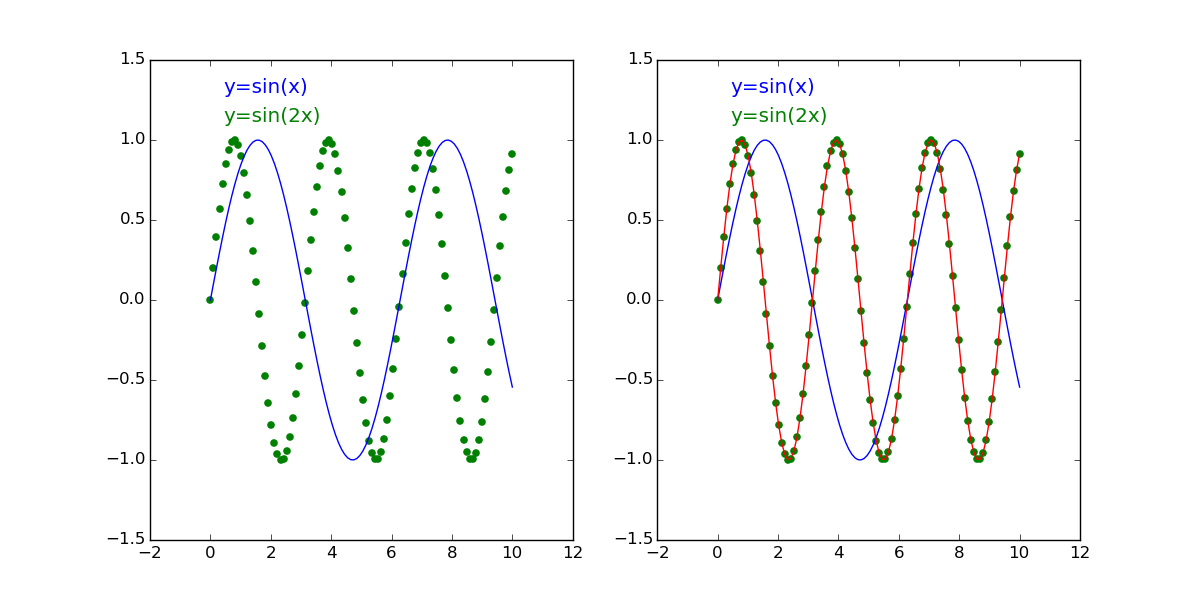
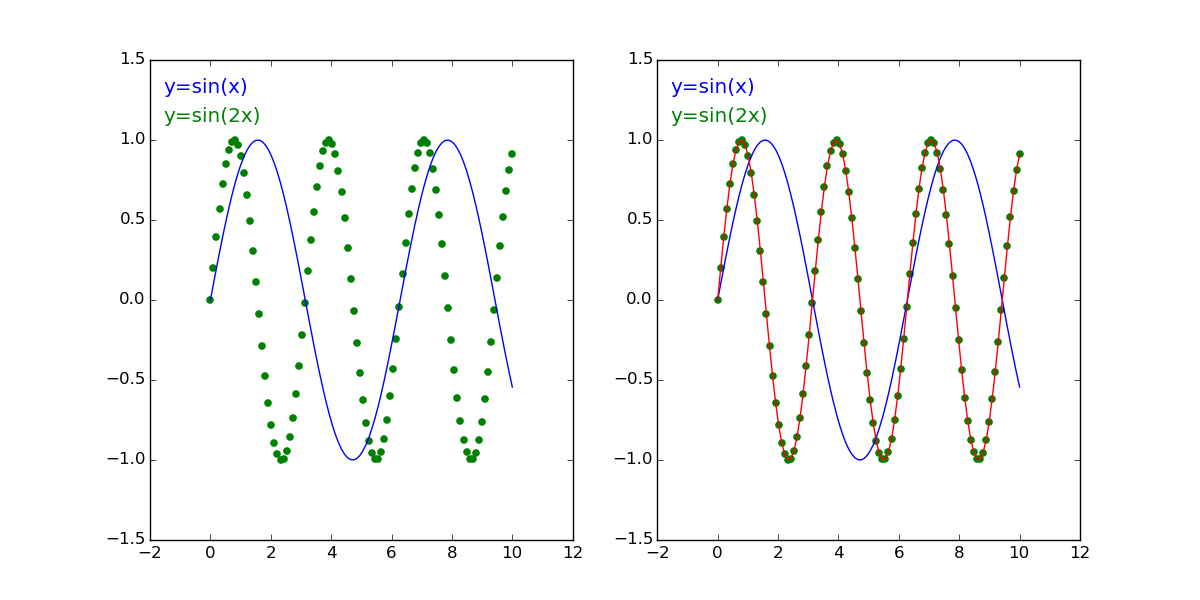
remove space when loc=2,3

Changed region(s): [[0.555, 0.12, 0.7092, 0.21], [0.1233, 0.12, 0.2775, 0.21]]

diff --git a/colorlegend.py b/colorlegend.py
@@ -1,6 +1,6 @@
 import matplotlib.pyplot as plt
 import matplotlib
-
+import numpy as np
 def __color_legend_texts__(leg):
     """Color legend texts based on color of corresponding lines"""
     #function taken from http://stackoverflow.com/a/21161986
@@ -24,7 +24,7 @@ def color_legend(ax,handles=False,labels=False,loc=1):
         else:
             color=firstobj.get_color()
         hcolors.append(plt.Line2D((0,0),(0,0), color=color))
-    lg=ax.legend(hcolors,labels,loc=loc)
+    lg=ax.legend(hcolors,labels,loc=loc,handlelength=-1)
     lg.draw_frame(False)
     __color_legend_texts__(lg)
     for l in lg.legendHandles:
